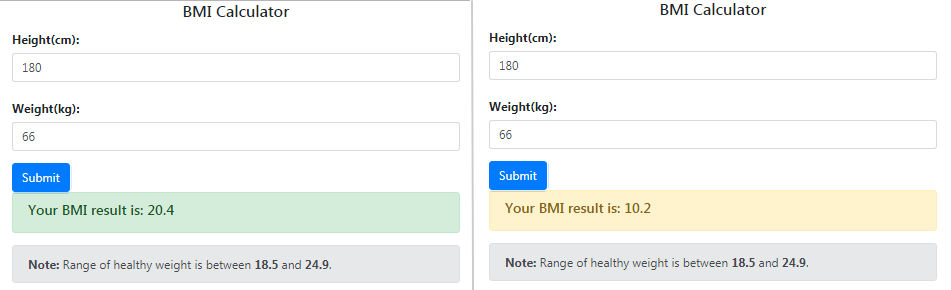
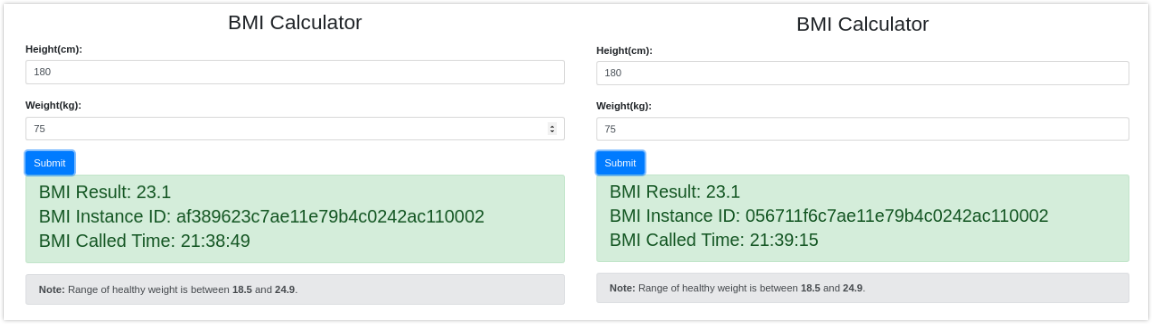
updated quick start images

diff --git a/_docs/load-balance.md b/_docs/load-balance.md
@@ -22,12 +22,12 @@ The simple embedded load balancer will be used by default. No extra configuratio
 
 Run one more *BMI calculator service* with the following command: 
 ```bash
-mvn spring-boot:run -Drun.profiles=v2 -Drun.jvmArguments="-Dcse.rest.address=0.0.0.0:7778"
+mvn spring-boot:run -Drun.jvmArguments="-Dcse.rest.address=0.0.0.0:7778"
 ```
 
-To better visualize the result, we use another version of *BMI calculator service* which calculates half of the BMI, namely v2. Besides, a different service port is needed to avoid port conflict.
+To better distinguish different running instances, we added a new interface that returns instance id in the implementation of BMI calculator, details can refer to [the implementation of BMI calculator](https://github.com/ServiceComb/ServiceComb-Java-Chassis/tree/master/samples/bmi/calculator). Besides, a different service port is needed to avoid port conflict.
 
-Now you can see the following figures shows up alternately by clicking the *Submit* button.
+Now you can see the instance id in the following figures shows up alternately by clicking the *Submit* button.
 
 ![Load balance result](/assets/images/load-balance-result.png){: .align-center}
 

diff --git a/_docs/cn/load-balance.md b/_docs/cn/load-balance.md
@@ -23,12 +23,12 @@ last_modified_at: 2017-09-03T10:01:43-04:00
 对 *体质指数计算器* 微服务进行水平扩展，使其运行实例数为2，即新增一个运行实例：
 
 ```bash
-mvn spring-boot:run -Drun.profiles=v2 -Drun.jvmArguments="-Dcse.rest.address=0.0.0.0:7778"
+mvn spring-boot:run -Drun.jvmArguments="-Dcse.rest.address=0.0.0.0:7778"
 ```
 
-为了使效果更明显，在此使用了v2版本的 *体质指数计算器* ，即仅计算体质指数的一半。而为了避免端口冲突，新的实例在另一个端口上运行。
+为了便于区分不同的运行实例，在体质指数计算器的实现中新增了返回实例ID和运行时间的接口，详情可查看[体质指数计算器的完整实现代码](https://github.com/ServiceComb/ServiceComb-Java-Chassis/tree/master/samples/bmi/calculator)。而为了避免端口冲突，新的实例在另一个端口上运行。
 
-此时点击 *Submit* 按钮就可以看到如下两个界面交替出现。
+此时点击 *Submit* 按钮就可以看到如下两个界面中的实例ID交替出现。
 
 ![负载均衡效果](/assets/images/load-balance-result.png){: .align-center}
 

diff --git a/_docs/cn/quick-start-bmi.md b/_docs/cn/quick-start-bmi.md
@@ -150,8 +150,7 @@ ServiceComb从0.4.0-SNAPSHOT版本之后新增了`spring-cloud-zuul`模块使能
 ```yaml
 zuul:
   routes:
-    calculator:
-      serviceId: calculator
+    calculator: /calculator/**
 
 # disable netflix eurkea since it's not used for service discovery
 ribbon:

diff --git a/_docs/quick-start-bmi.md b/_docs/quick-start-bmi.md
@@ -150,8 +150,7 @@ Configure routing rules and service endpoint in `application.yaml`.
 ```yaml
 zuul:
   routes:
-    calculator:
-      serviceId: calculator
+    calculator: /calculator/**
 
 # disable netflix eurkea since it's not used for service discovery
 ribbon:
